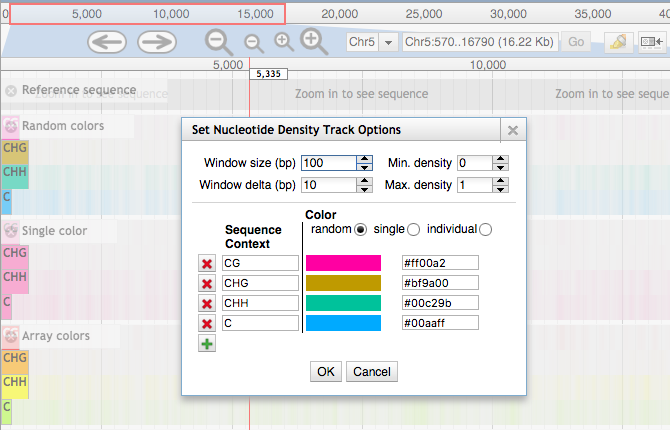
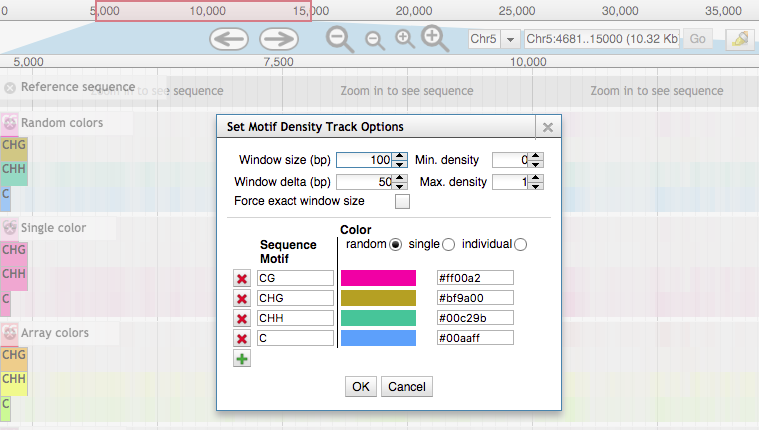
updates for v2.2.0

Changed region(s): [[0.0, 0.0, 1.0, 0.9977], [0.9552, 0.4837, 0.9851, 0.514]]

diff --git a/README.md b/README.md
@@ -46,7 +46,7 @@ Sample data is included in the plugin to test that the plugin is working properl
 
 **Note**: sometimes the density doesn't fully load the first time. Deselect track and readd.
 
-## Using Nucleotide Density Tracks
+## Using Motif Density Tracks
 
 Loading the track may take awhile for large region and/or many motifs.
 
@@ -95,6 +95,16 @@ Colors can be specified using a javascript object assigning a color to each cont
     "colors" : { "CG" : "#A36085", "CHG": "#0072B2", "CHH" : "#CF8F00", "C" : "#00c29b" }
 ```
 
+### Window Size/Window Delta
+Density is computed using a sliding window technique to proudce. Density values must be computed when viewing a region for the first time.
+With large regions and small window delta(step size), the number of density "features" computed becomes very high and can cause memory issues in the browser.
+
+To avoid this, when zooomed out/viewing a large region, the window size/delta will automatically be adjusted to reduce the number of density "features". When this happens, black lines appear at the top and bottom of the track (unless clip markers are disabled).
+
+This option can be turned off with the `forceExactWindowSize` parameter. When zoomed out too far, the track gives a warning message.
+
+The `maxFeatureScreen` parameter determine what is considered too far zoomed out. This value is the maximum number of density features allowed in each block before changing the window size/delta or displaying the warning message.
+
 ### Dialog Menu
 Many of the parameters and settings can be adjusted using a dialog box in the track menu. Motifs can be added and removed. Colors can be changed to any of the possible color parameter types. The minimum and maximum density can be set to improve visualization. And the window size and window delta can be adjusted.
 
@@ -108,6 +118,8 @@ Additional parameters that can be specified for the track configuration.
 * `"max_score" : 1`  , maximum density when computing color
 * `"windowSize" : 100`  , window size for sliding window when computing density
 * `"windowDelta" : 10`  , window step size for sliding window
+* `"maxFeatureScreen" : 25000` , maximum number of features allowed in block without adjusting window size/delta
+* `"forceExactWindowSize" : false`  , when true, do not adjust window size/delta when too many features in block
 * `"showLabels" : true`  , show context sublabels on track
 * `"showScores" : true`  , show density value when mouse is over the track
 * `"bothStrands" : false`  , use sequence on forward strand only or both strands to compute density
@@ -115,7 +127,6 @@ Additional parameters that can be specified for the track configuration.
 
 
 ## Future Plans
-- Adjust window size/window delta when zoomed out really far to avoid out of memory errors and excessively long loading times
 - "Loading" screen when recomputing after changing a track setting
 - Ability to add track locally by adding option to menu bar, "File"
 - Possibly improved score view (currently works fine but is not visually appealing)

diff --git a/CHANGELOG.md b/CHANGELOG.md
@@ -1,7 +1,16 @@
 # Change log
 Note: Version numbering will begin with v2 to avoid confusion with version numbering from Nucleotide Density plugin
 
-### [Unresleased]
+### [Unreleased]
+
+### [v2.2.0] - 2017-11-06
+- FIXED typos in README and test data trackList.json
+- ADDED automatic window size/delta when viewing very large regions
+  - avoids out of memory errors
+  - can be faster
+  - when window size/delta are changed, black lines appear above/below the track
+- ADDED option to force the window size/delta and not automatically adjust (see above)
+  - when zoomed too far out, gives warning message
 
 ### [v2.1.0] - 2017-09-26
 - bug fixes
